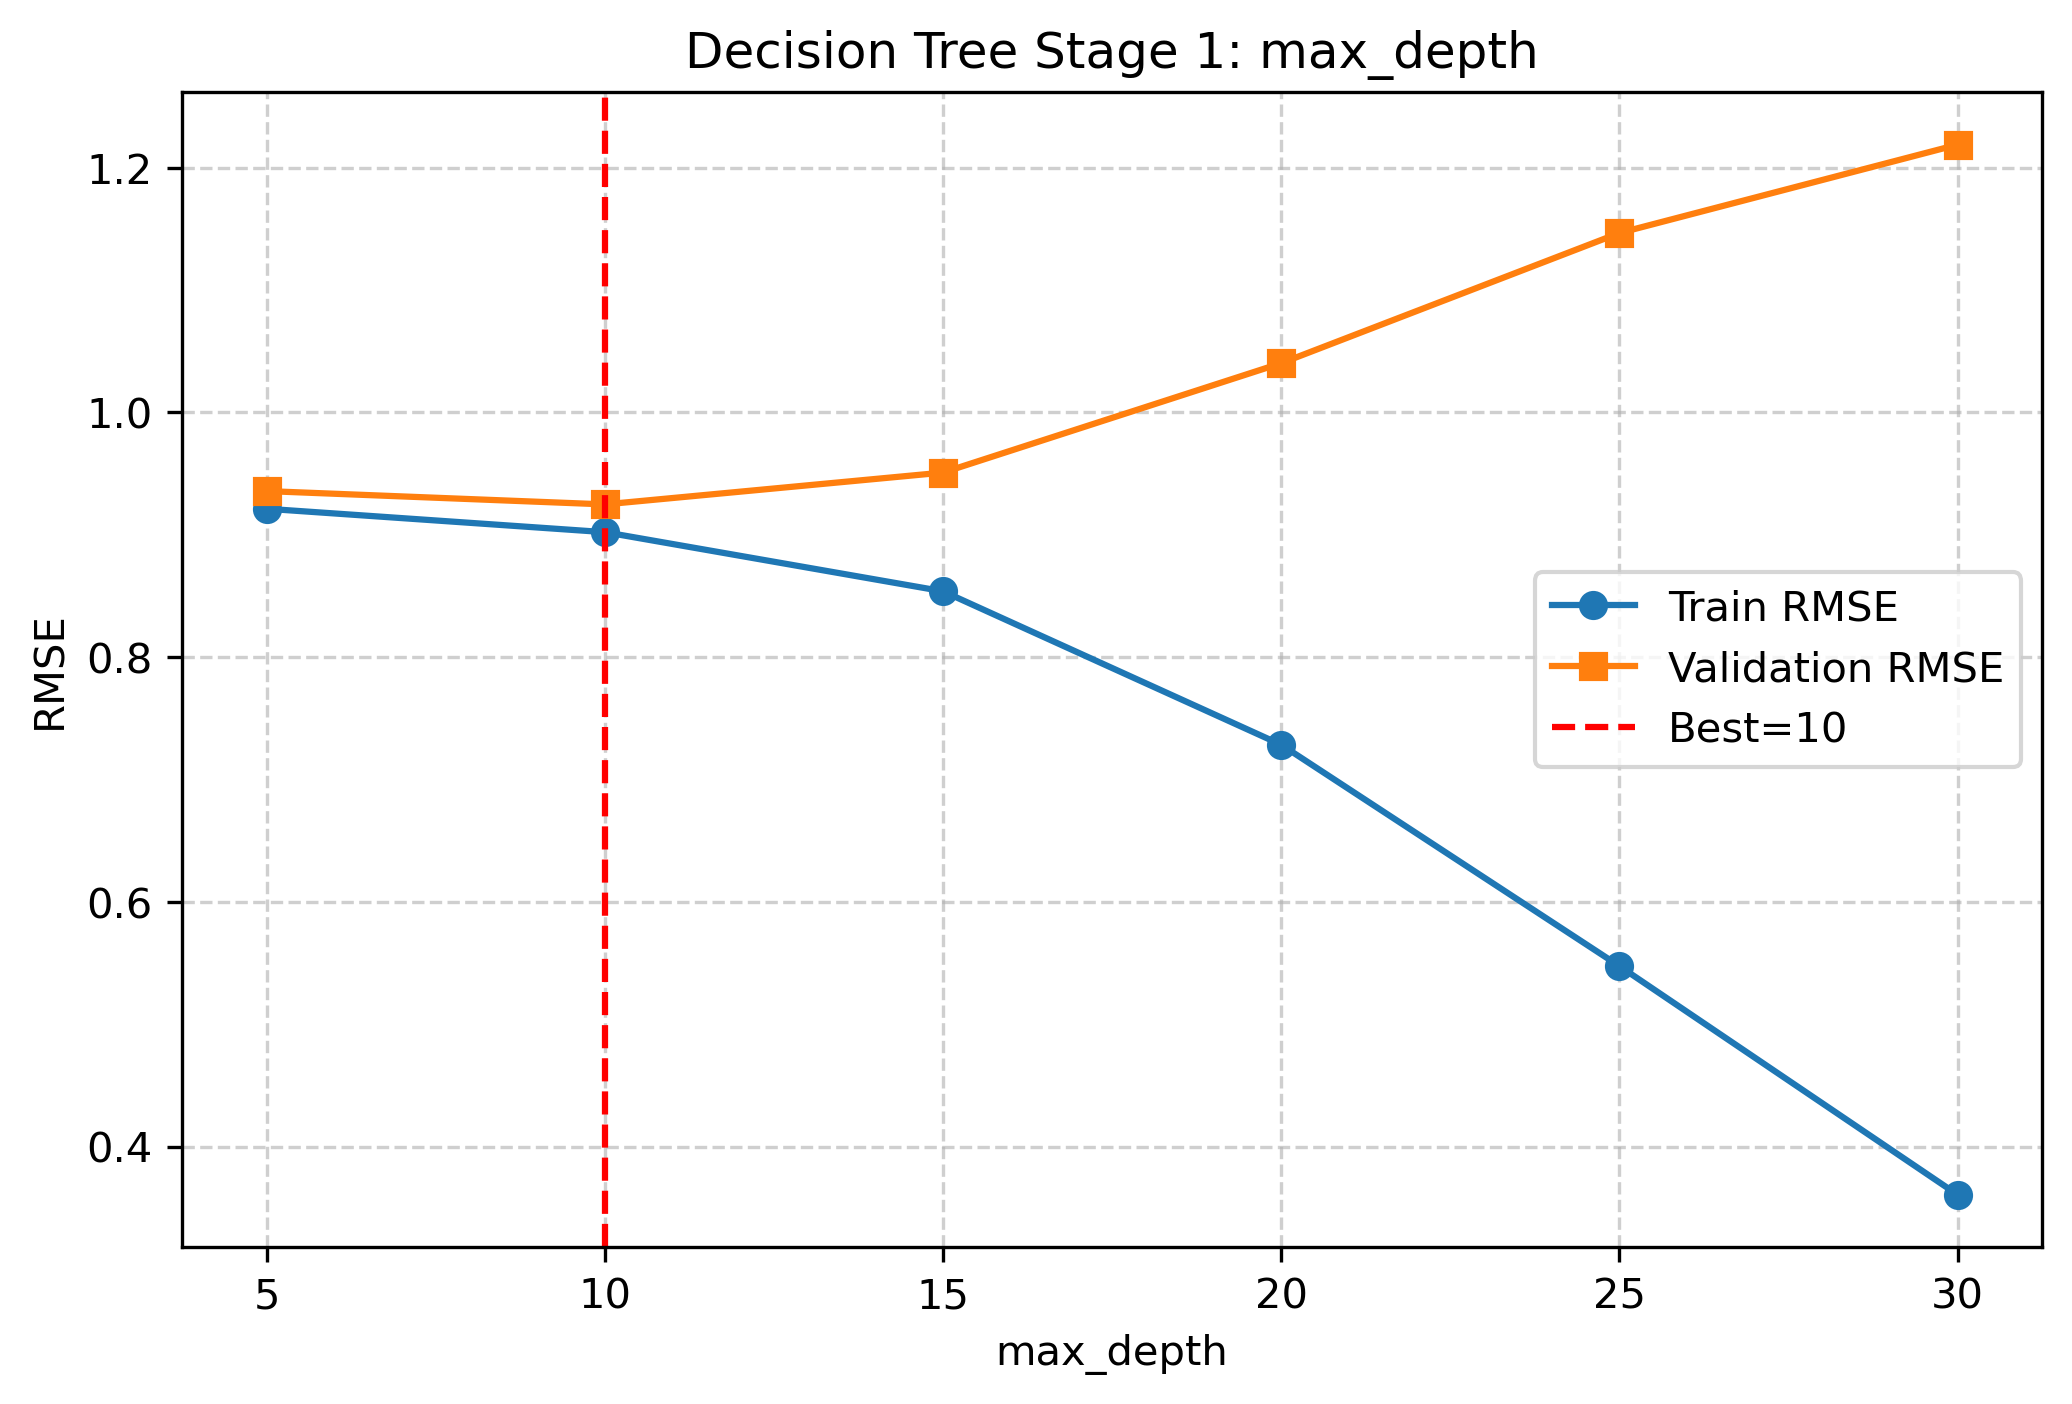
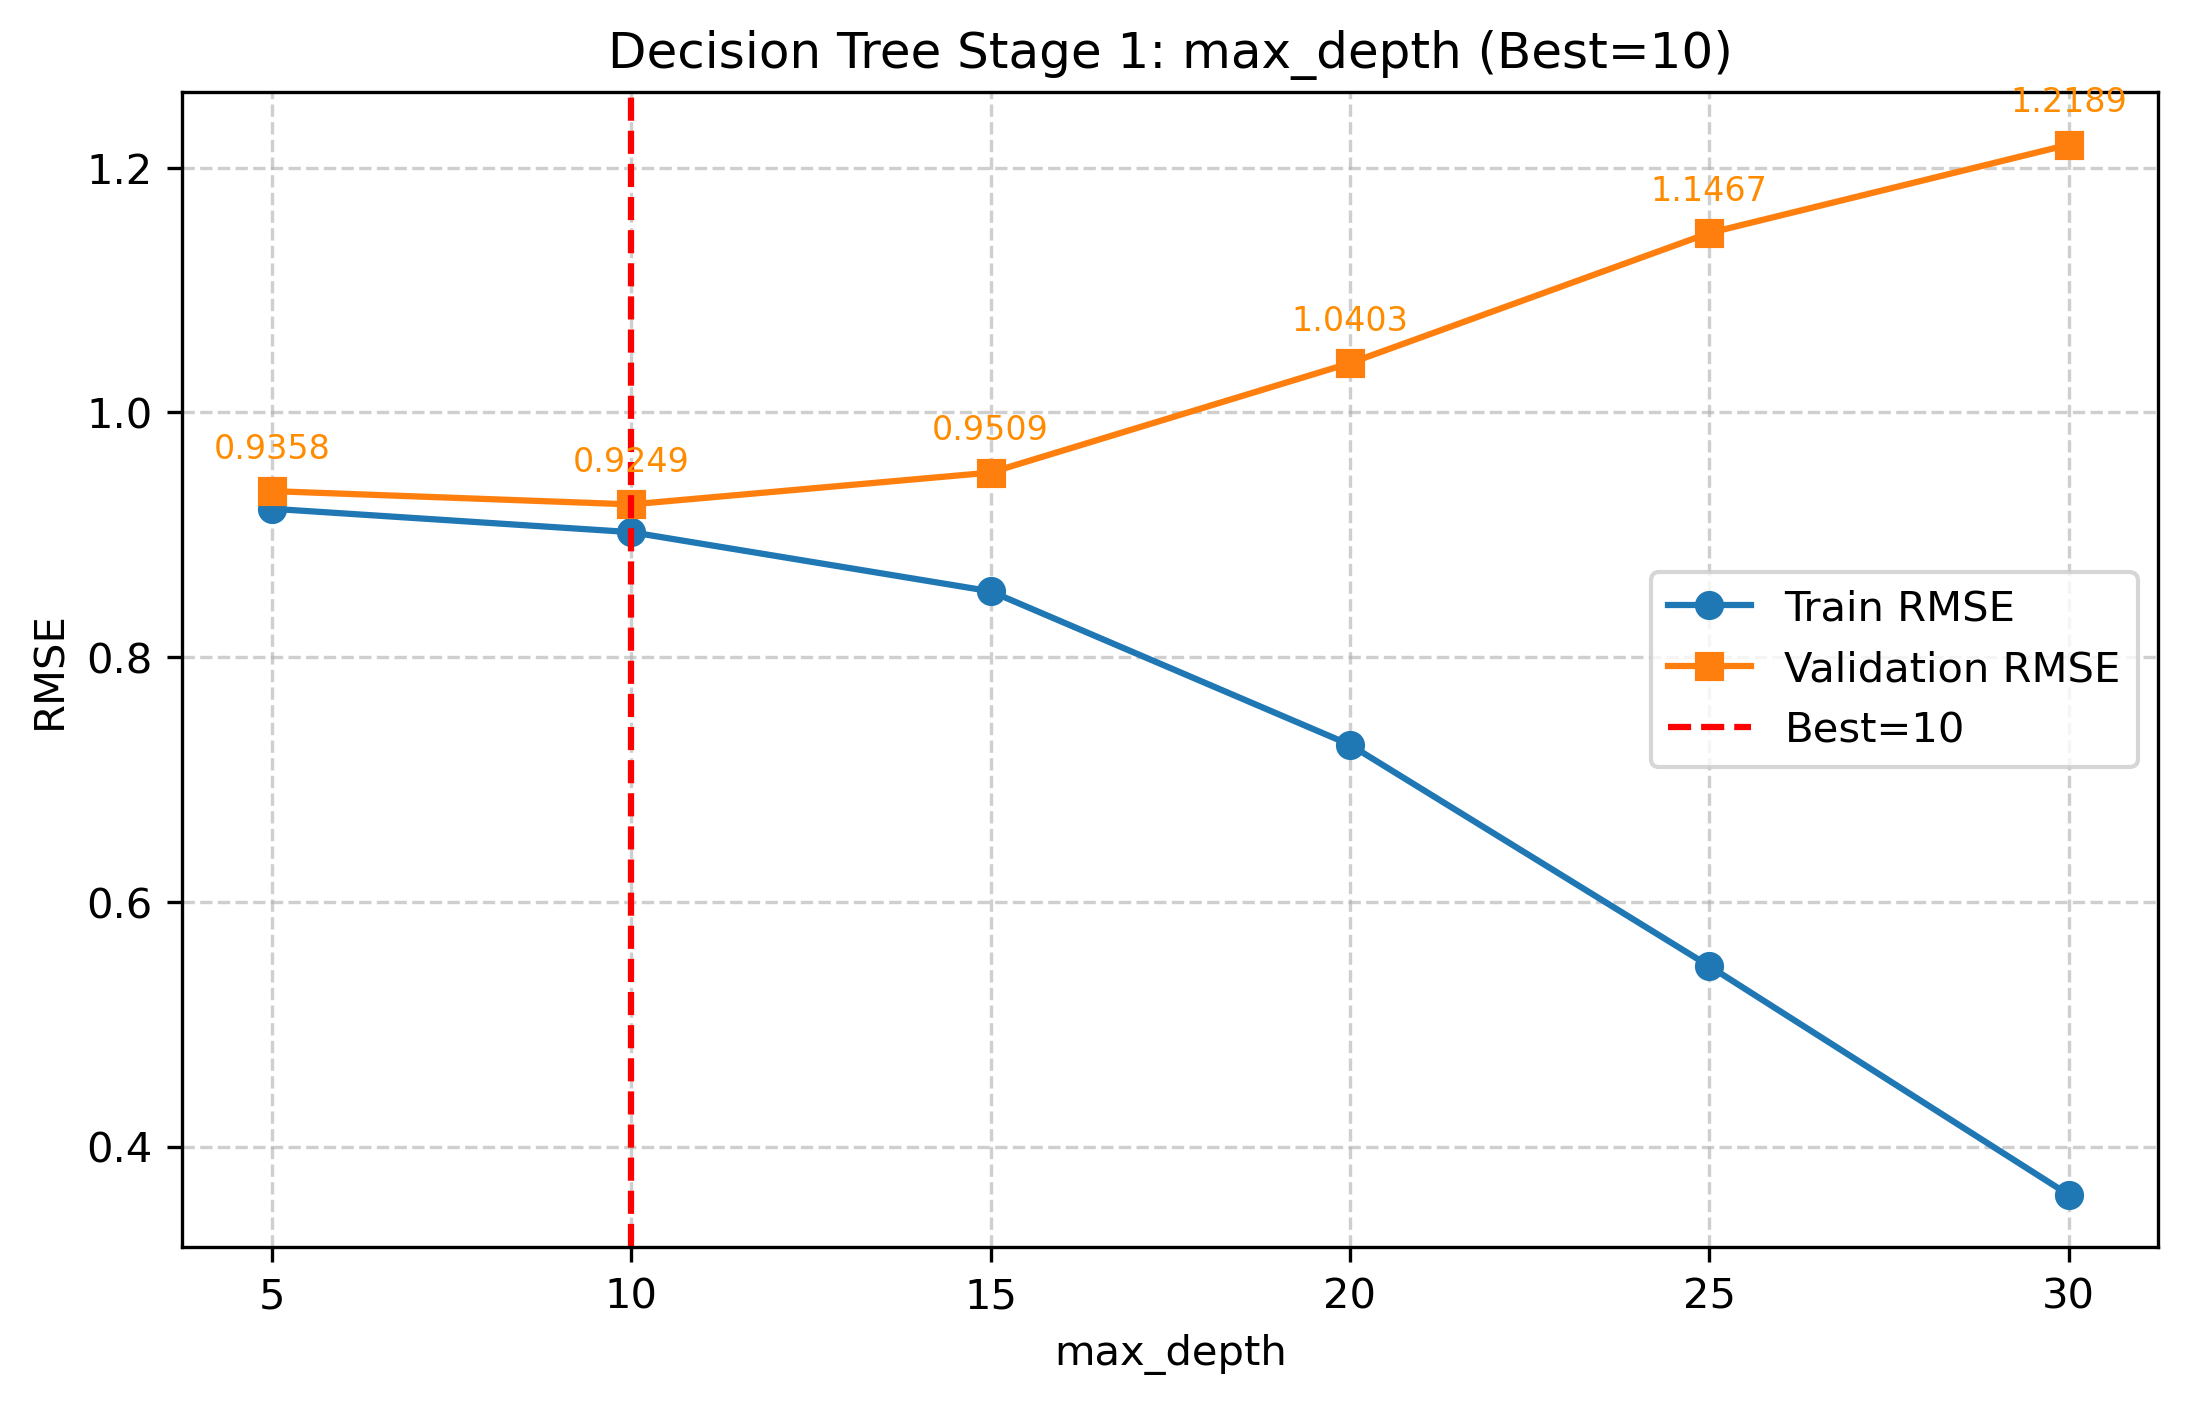
dt and lr done

diff --git a/tuning/LR/tune_lr.py b/tuning/LR/tune_lr.py
@@ -41,7 +41,7 @@ def save_history(rows):
 
 
 def plot_stage(values, train_rmses, val_rmses, param_name, best_val, stage_idx, log_x=False):
-    plt.figure(figsize=(8, 5))
+    plt.figure(figsize=(8.5, 5))
     is_numeric = all(isinstance(v, (int, float)) and not isinstance(v, bool) for v in values)
 
     if is_numeric:
@@ -49,15 +49,36 @@ def plot_stage(values, train_rmses, val_rmses, param_name, best_val, stage_idx, 
         plot_fn(values, train_rmses, marker='o', label='Train RMSE')
         plot_fn(values, val_rmses, marker='s', label='Validation RMSE')
         plt.axvline(best_val, color='r', linestyle='--', label=f'Best={best_val}')
+        for x_val, y_val in zip(values, val_rmses):
+            plt.annotate(f"{y_val:.4f}", (x_val, y_val), textcoords="offset points",
+                         xytext=(0, 8), ha='center', fontsize=8, color='darkorange')
     else:
         labels = [str(v) for v in values]
         x = np.arange(len(labels))
-        plt.plot(x, train_rmses, marker='o', label='Train RMSE')
-        plt.plot(x, val_rmses, marker='s', label='Validation RMSE')
-        plt.xticks(x, labels)
-        plt.axvline(labels.index(str(best_val)), color='r', linestyle='--', label=f'Best={best_val}')
+        width = 0.35
+        bars_tr = plt.bar(x - width / 2, train_rmses, width, label='Train RMSE', color='#1f77b4')
+        bars_va = plt.bar(x + width / 2, val_rmses, width, label='Validation RMSE', color='#ff7f0e')
 
-    plt.title(f'Ridge (LR) Stage {stage_idx}: {param_name}')
+        best_idx = labels.index(str(best_val))
+        bars_va[best_idx].set_edgecolor('red')
+        bars_va[best_idx].set_linewidth(2.0)
+
+        for bar in bars_tr:
+            h = bar.get_height()
+            plt.annotate(f"{h:.4f}", (bar.get_x() + bar.get_width() / 2, h),
+                         textcoords="offset points", xytext=(0, 4), ha='center', fontsize=8)
+        for bar in bars_va:
+            h = bar.get_height()
+            plt.annotate(f"{h:.4f}", (bar.get_x() + bar.get_width() / 2, h),
+                         textcoords="offset points", xytext=(0, 4), ha='center', fontsize=8)
+
+        all_vals = train_rmses + val_rmses
+        span = max(all_vals) - min(all_vals)
+        margin = max(span * 0.3, 0.002)
+        plt.ylim(max(0, min(all_vals) - margin), max(all_vals) + margin * 1.4)
+        plt.xticks(x, labels)
+
+    plt.title(f'Ridge (LR) Stage {stage_idx}: {param_name} (Best={best_val})')
     plt.xlabel(param_name)
     plt.ylabel('RMSE')
     plt.legend()
@@ -78,7 +99,7 @@ def tune_lr():
     X_test, y_test = imputer.transform(splits['test'][0]), splits['test'][1]
 
     stages = [
-        ('alpha', [0.001, 0.01, 0.1, 1.0, 10.0, 100.0, 1000.0], True),
+        ('alpha', [0.001, 0.01, 0.1, 1.0, 10.0, 100.0, 1000.0, 10000.0], True),
         ('fit_intercept', [True, False], False),
         ('solver', ['auto', 'svd', 'cholesky', 'lsqr', 'sag'], False),
     ]

diff --git a/tuning/DT/tune_dt.py b/tuning/DT/tune_dt.py
@@ -42,22 +42,43 @@ def save_history(rows):
 
 
 def plot_stage(values, train_rmses, val_rmses, param_name, best_val, stage_idx):
-    plt.figure(figsize=(8, 5))
+    plt.figure(figsize=(8.5, 5))
     is_numeric = all(isinstance(v, (int, float)) and not isinstance(v, bool) for v in values)
 
     if is_numeric:
         plt.plot(values, train_rmses, marker='o', label='Train RMSE')
         plt.plot(values, val_rmses, marker='s', label='Validation RMSE')
         plt.axvline(best_val, color='r', linestyle='--', label=f'Best={best_val}')
+        for x_val, y_val in zip(values, val_rmses):
+            plt.annotate(f"{y_val:.4f}", (x_val, y_val), textcoords="offset points",
+                         xytext=(0, 8), ha='center', fontsize=8, color='darkorange')
     else:
         labels = [str(v) for v in values]
         x = np.arange(len(labels))
-        plt.plot(x, train_rmses, marker='o', label='Train RMSE')
-        plt.plot(x, val_rmses, marker='s', label='Validation RMSE')
-        plt.xticks(x, labels)
-        plt.axvline(labels.index(str(best_val)), color='r', linestyle='--', label=f'Best={best_val}')
+        width = 0.35
+        bars_tr = plt.bar(x - width / 2, train_rmses, width, label='Train RMSE', color='#1f77b4')
+        bars_va = plt.bar(x + width / 2, val_rmses, width, label='Validation RMSE', color='#ff7f0e')
 
-    plt.title(f'Decision Tree Stage {stage_idx}: {param_name}')
+        best_idx = labels.index(str(best_val))
+        bars_va[best_idx].set_edgecolor('red')
+        bars_va[best_idx].set_linewidth(2.0)
+
+        for bar in bars_tr:
+            h = bar.get_height()
+            plt.annotate(f"{h:.4f}", (bar.get_x() + bar.get_width() / 2, h),
+                         textcoords="offset points", xytext=(0, 4), ha='center', fontsize=8)
+        for bar in bars_va:
+            h = bar.get_height()
+            plt.annotate(f"{h:.4f}", (bar.get_x() + bar.get_width() / 2, h),
+                         textcoords="offset points", xytext=(0, 4), ha='center', fontsize=8)
+
+        all_vals = train_rmses + val_rmses
+        span = max(all_vals) - min(all_vals)
+        margin = max(span * 0.3, 0.002)
+        plt.ylim(max(0, min(all_vals) - margin), max(all_vals) + margin * 1.4)
+        plt.xticks(x, labels)
+
+    plt.title(f'Decision Tree Stage {stage_idx}: {param_name} (Best={best_val})')
     plt.xlabel(param_name)
     plt.ylabel('RMSE')
     plt.legend()
@@ -79,7 +100,7 @@ def tune_dt():
 
     stages = [
         ('max_depth', [5, 10, 15, 20, 25, 30]),
-        ('min_samples_split', [2, 10, 20, 50, 100]),
+        ('min_samples_split', [2, 10, 20, 50, 100, 200]),
         ('min_samples_leaf', [1, 5, 10, 20, 50, 100]),
         ('criterion', ['squared_error', 'friedman_mse', 'poisson']),
     ]
